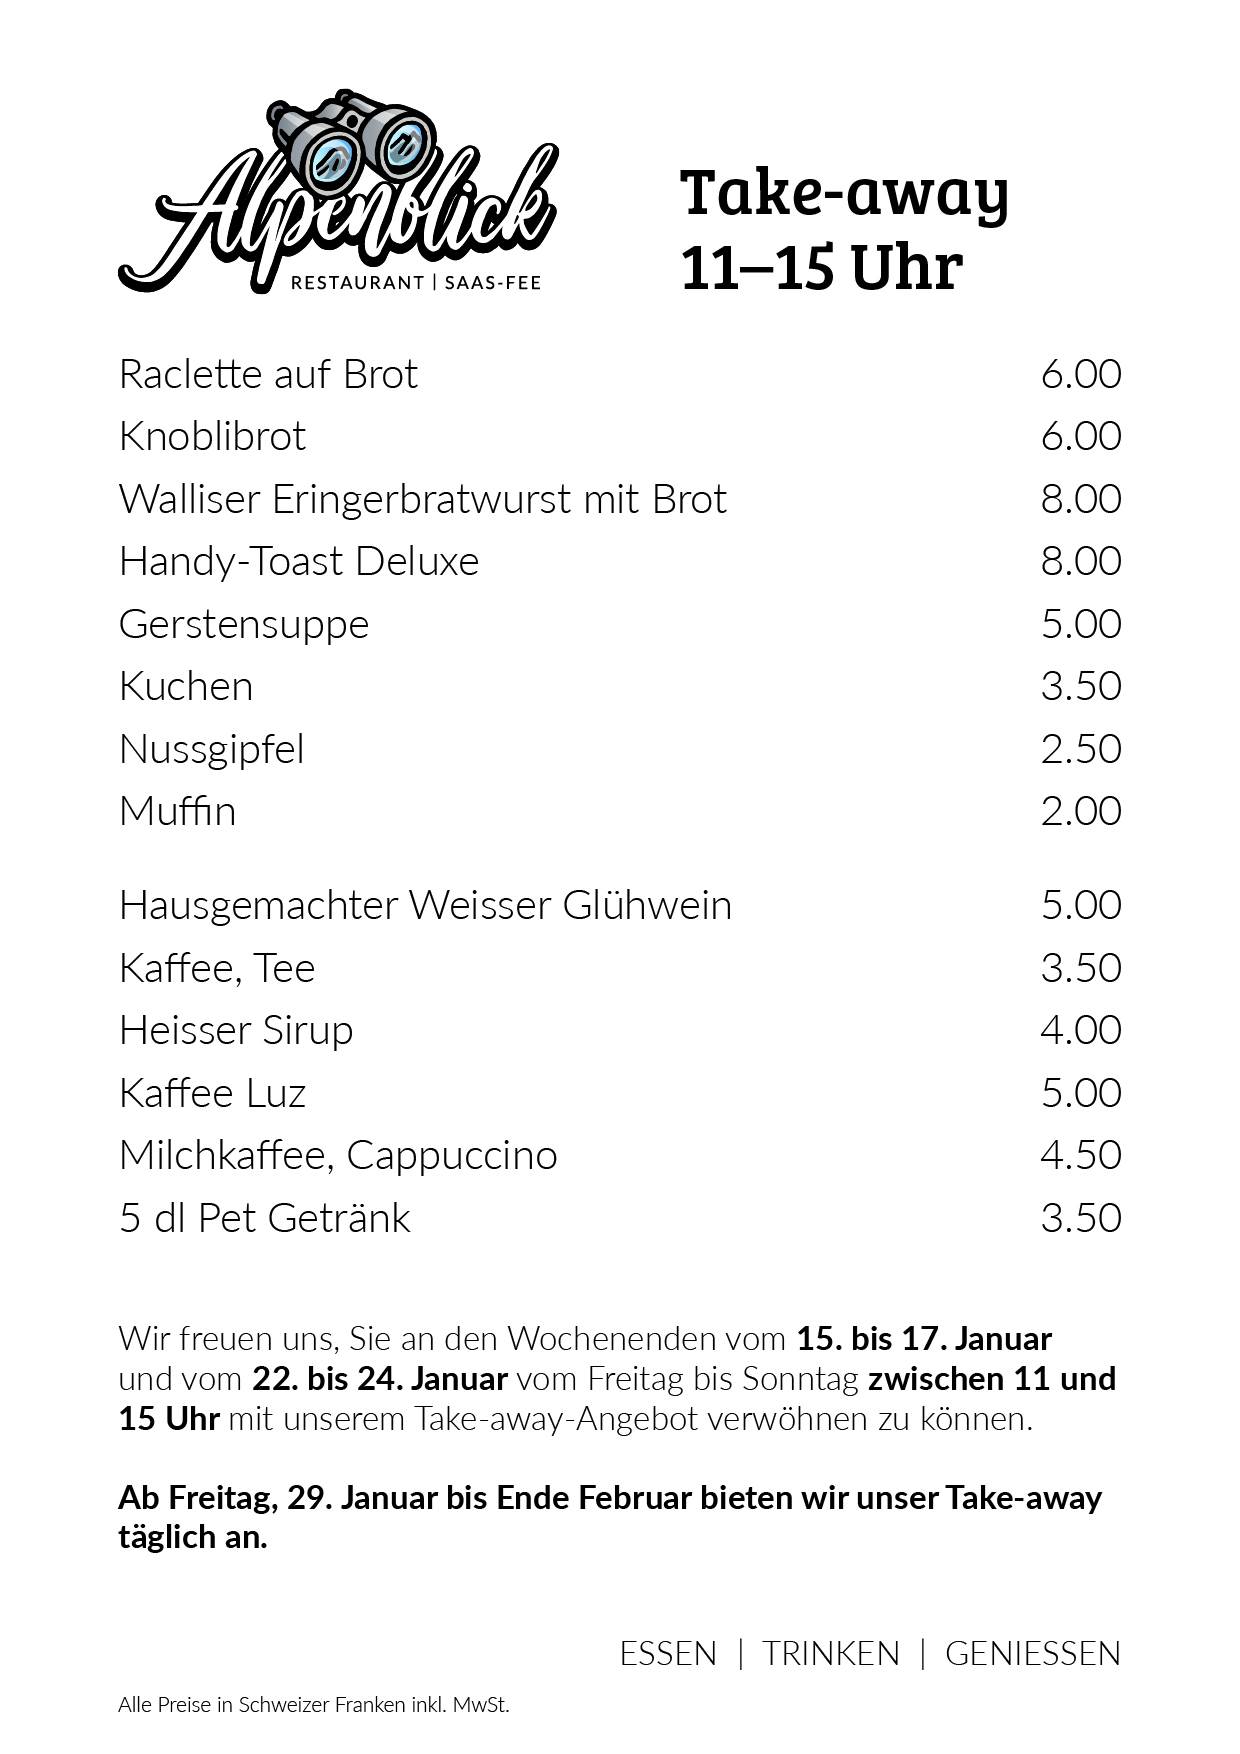
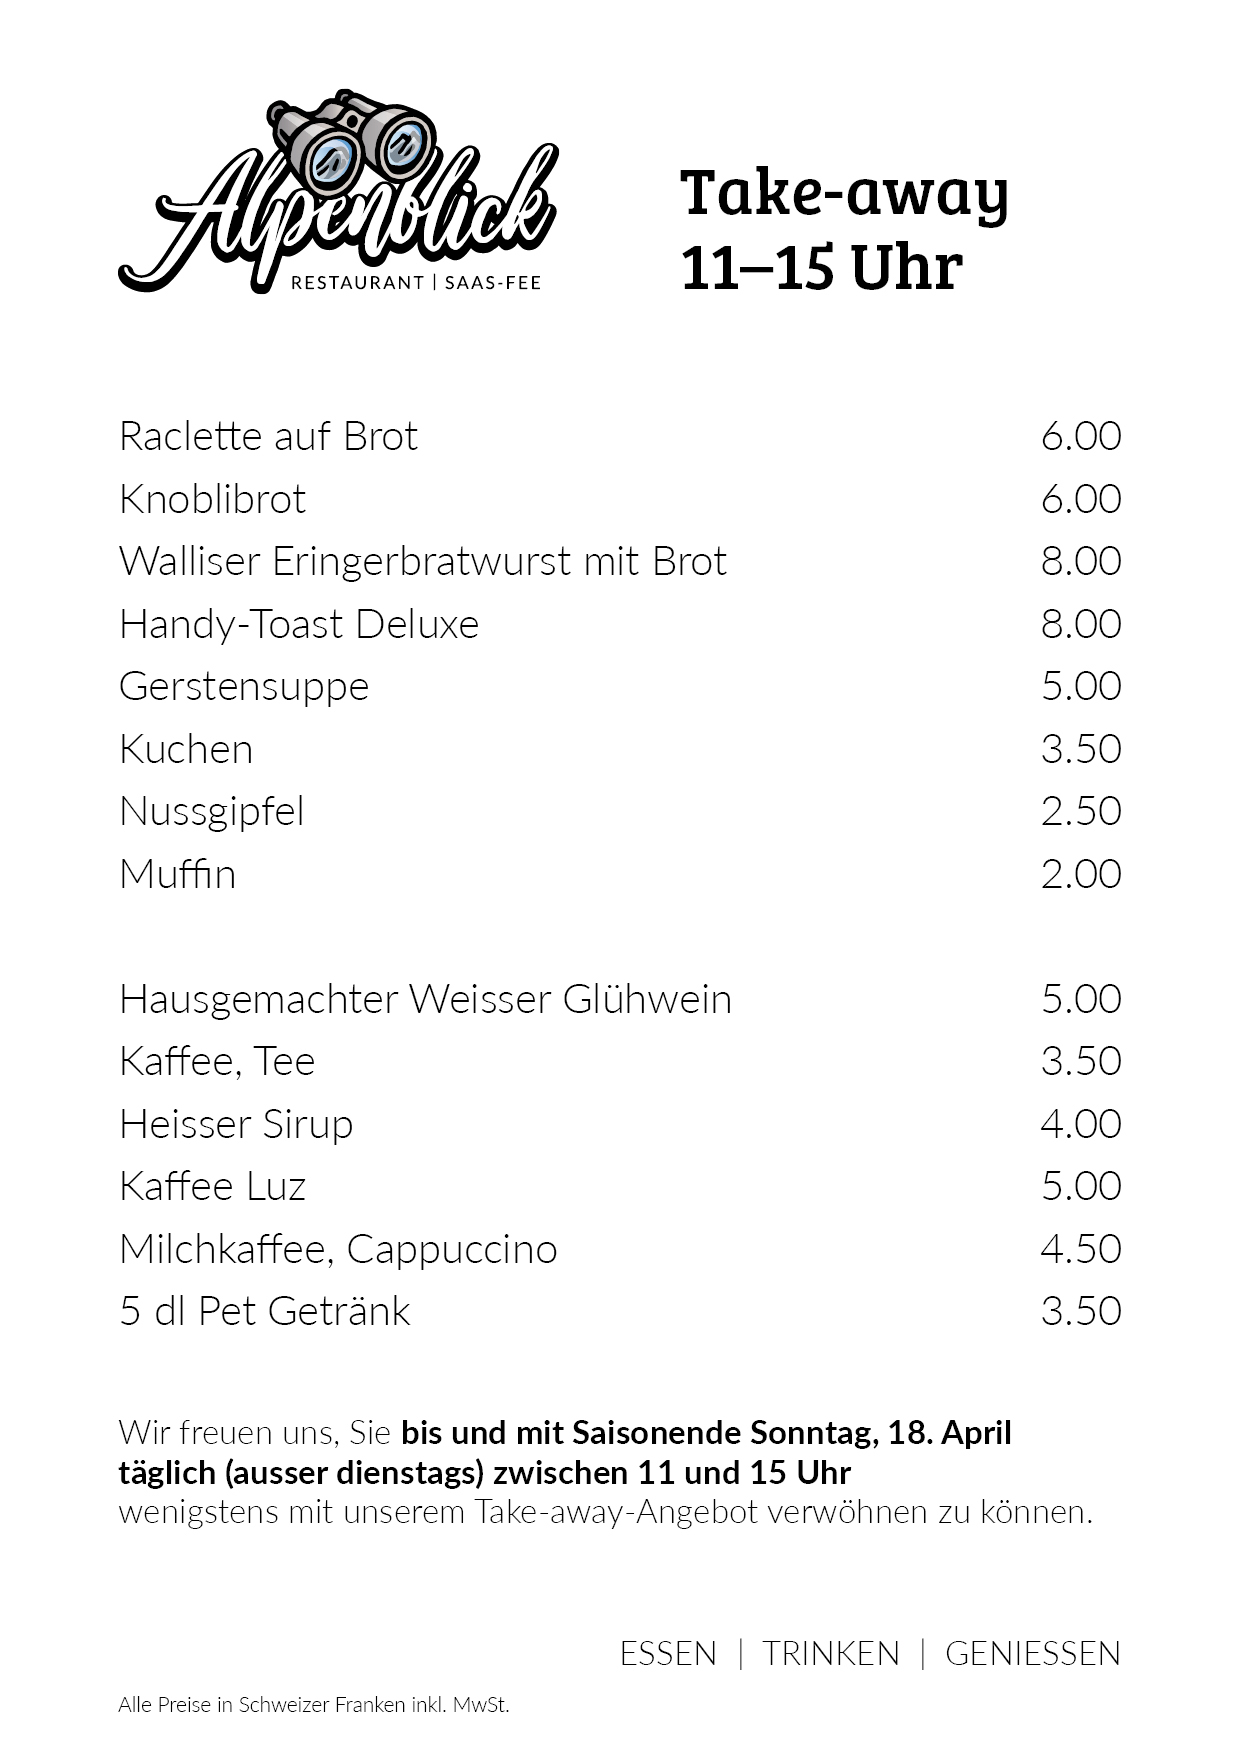
homepage update

diff --git a/content/_index.md b/content/_index.md
@@ -16,7 +16,7 @@ Normaler Text zwischen Linien<br>
 
 ---
 **Wintersaison 2020 / 2021 – Take-away**<br>
-Wir freuen uns, Sie bis und mit Sonntag, 21. März täglich (ausser dienstags) zwischen 11 und 15 Uhr mit unserem <a href="images/Alpenblick_Take-away_Menukarte_A4_hoch_DE.jpg" target="_blank"> Take-away-Angebot</a> verwöhnen zu können. Anschliessend hoffen wir natürlich, mindestens unsere Sonnenterrasse wieder in Betrieb nehmen zu dürfen!
+Wir freuen uns, Sie bis und mit Saisonende Sonntag, 18. April täglich (ausser dienstags) zwischen 11 und 15 Uhr wenigstens mit unserem <a href="images/Alpenblick_Take-away_Menukarte_A4_hoch_DE.jpg" target="_blank"> Take-away-Angebot</a> verwöhnen zu können.
 
 **Essen | Trinken | Geniessen | ÜBERNACHTEN**<br>
 Unser kleines aber feines <a href="images/Alpenblick_Flyer_Uebernachten_2021.jpg" target="_blank">Massenlager</a> (bis 10 Personen) ist schlafbereit!
